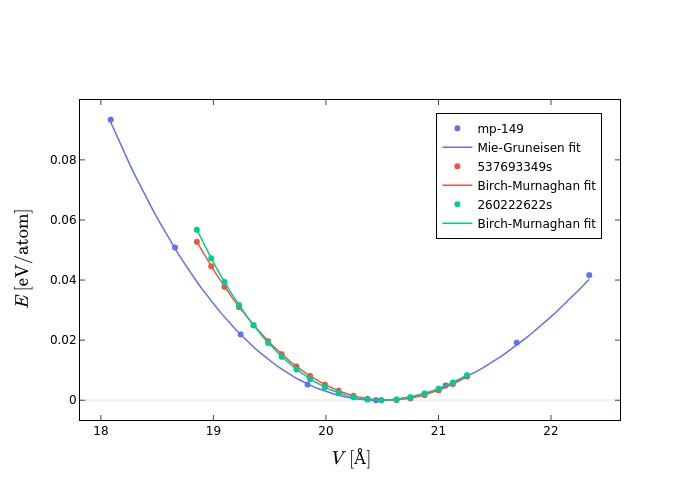
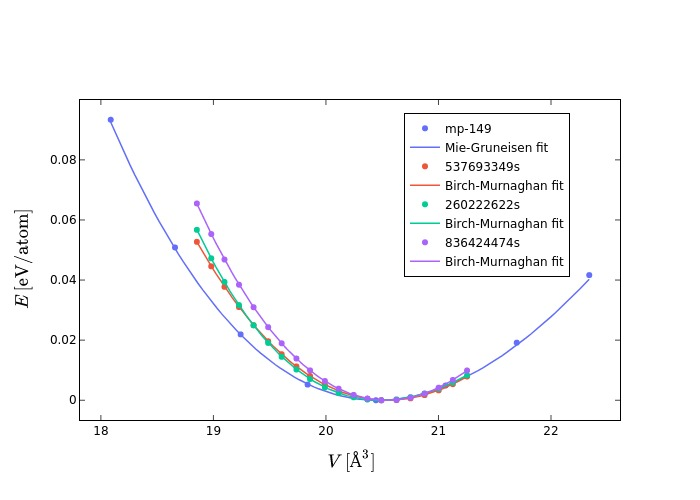
fix: add model crystalline_10,20,40d_20,20,20f_836424474s measurements to plots

diff --git a/ml4md/plot_ev_curves.py b/ml4md/plot_ev_curves.py
@@ -94,16 +94,17 @@ def main():
             linecolor="black",
             mirror="allticks",
             ticks="inside",
-            showline=True
+            showline=True,
+            zeroline=False
         ),
         legend=dict(
-            x=.66,
+            x=.60,
             y=.96,
             traceorder="normal",
             bordercolor="#000",
             borderwidth=1
         ),
-        xaxis_title=r"$V \, [\mathrm{Å}]$",
+        xaxis_title=r"$V \, [\mathrm{Å}^3]$",
         yaxis_title=r"$E \, [\mathrm{eV}/\mathrm{atom}]$"
     )
 
